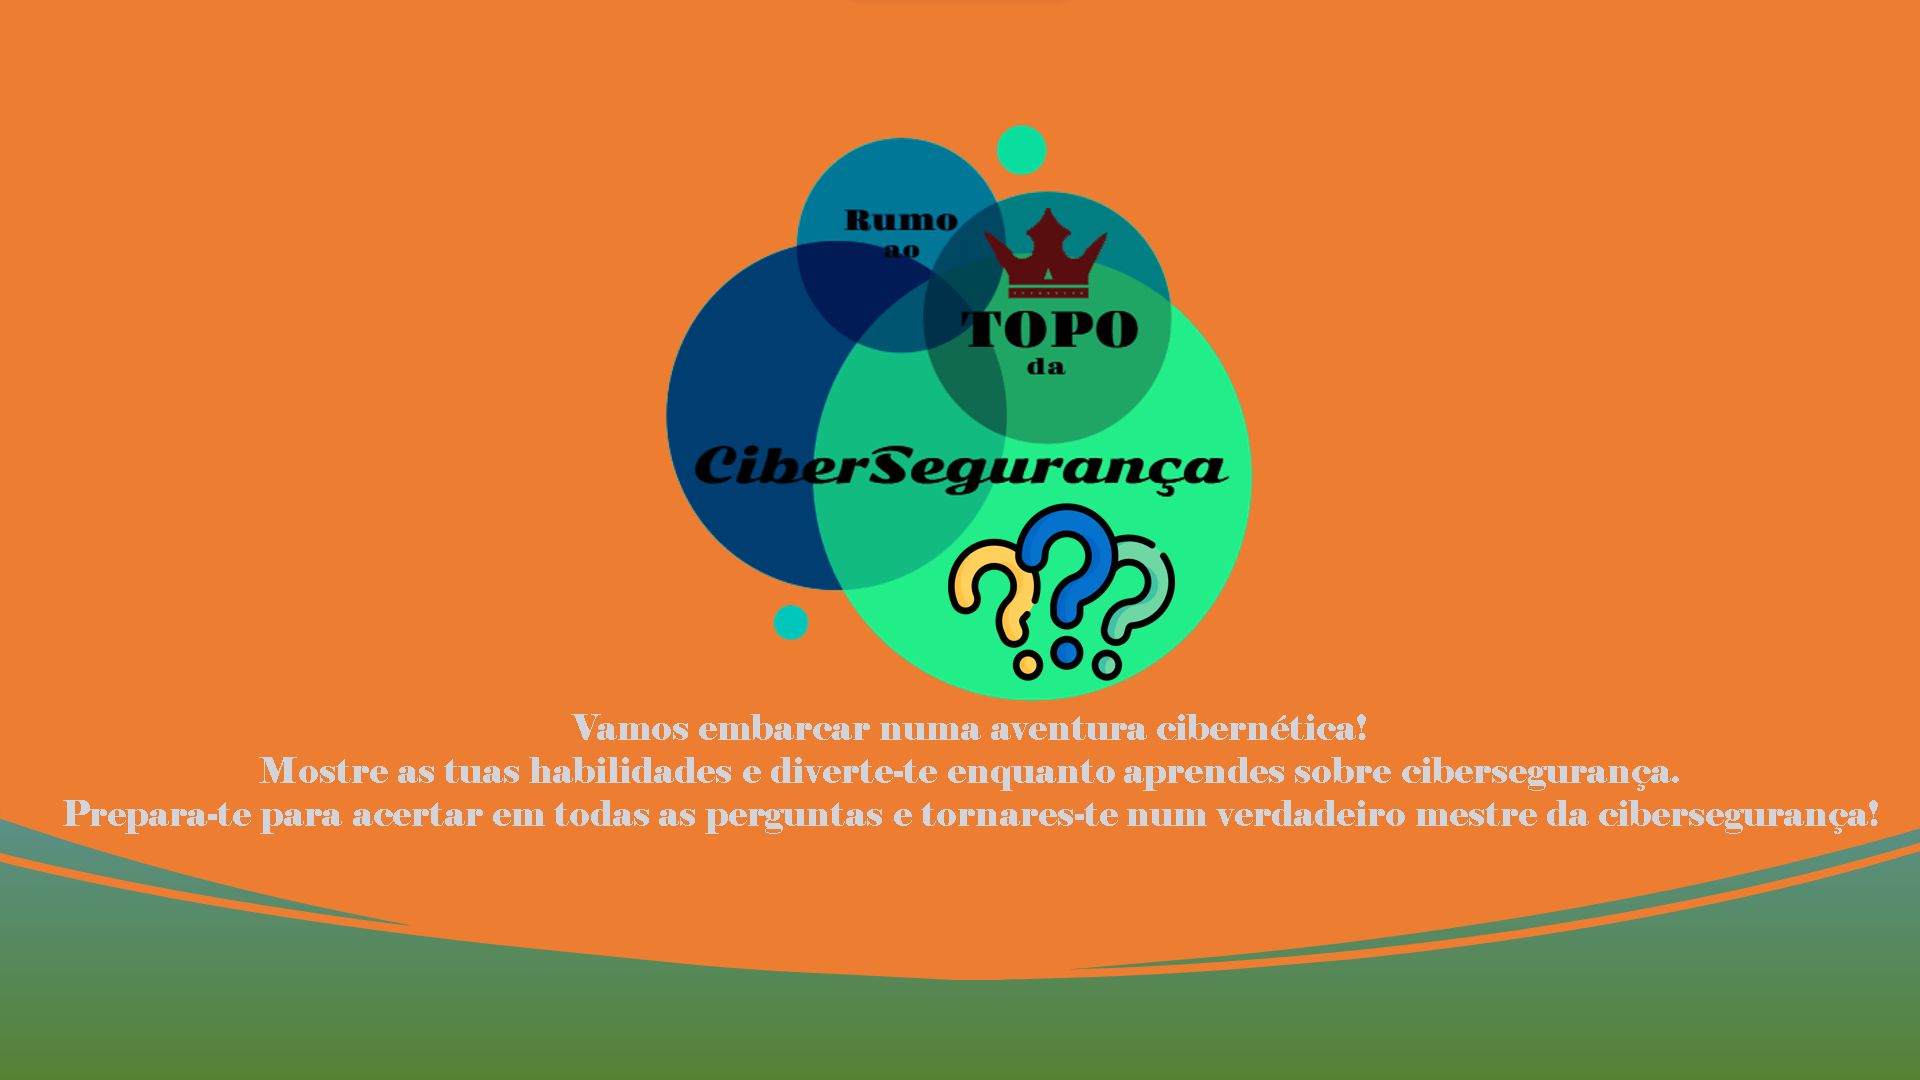
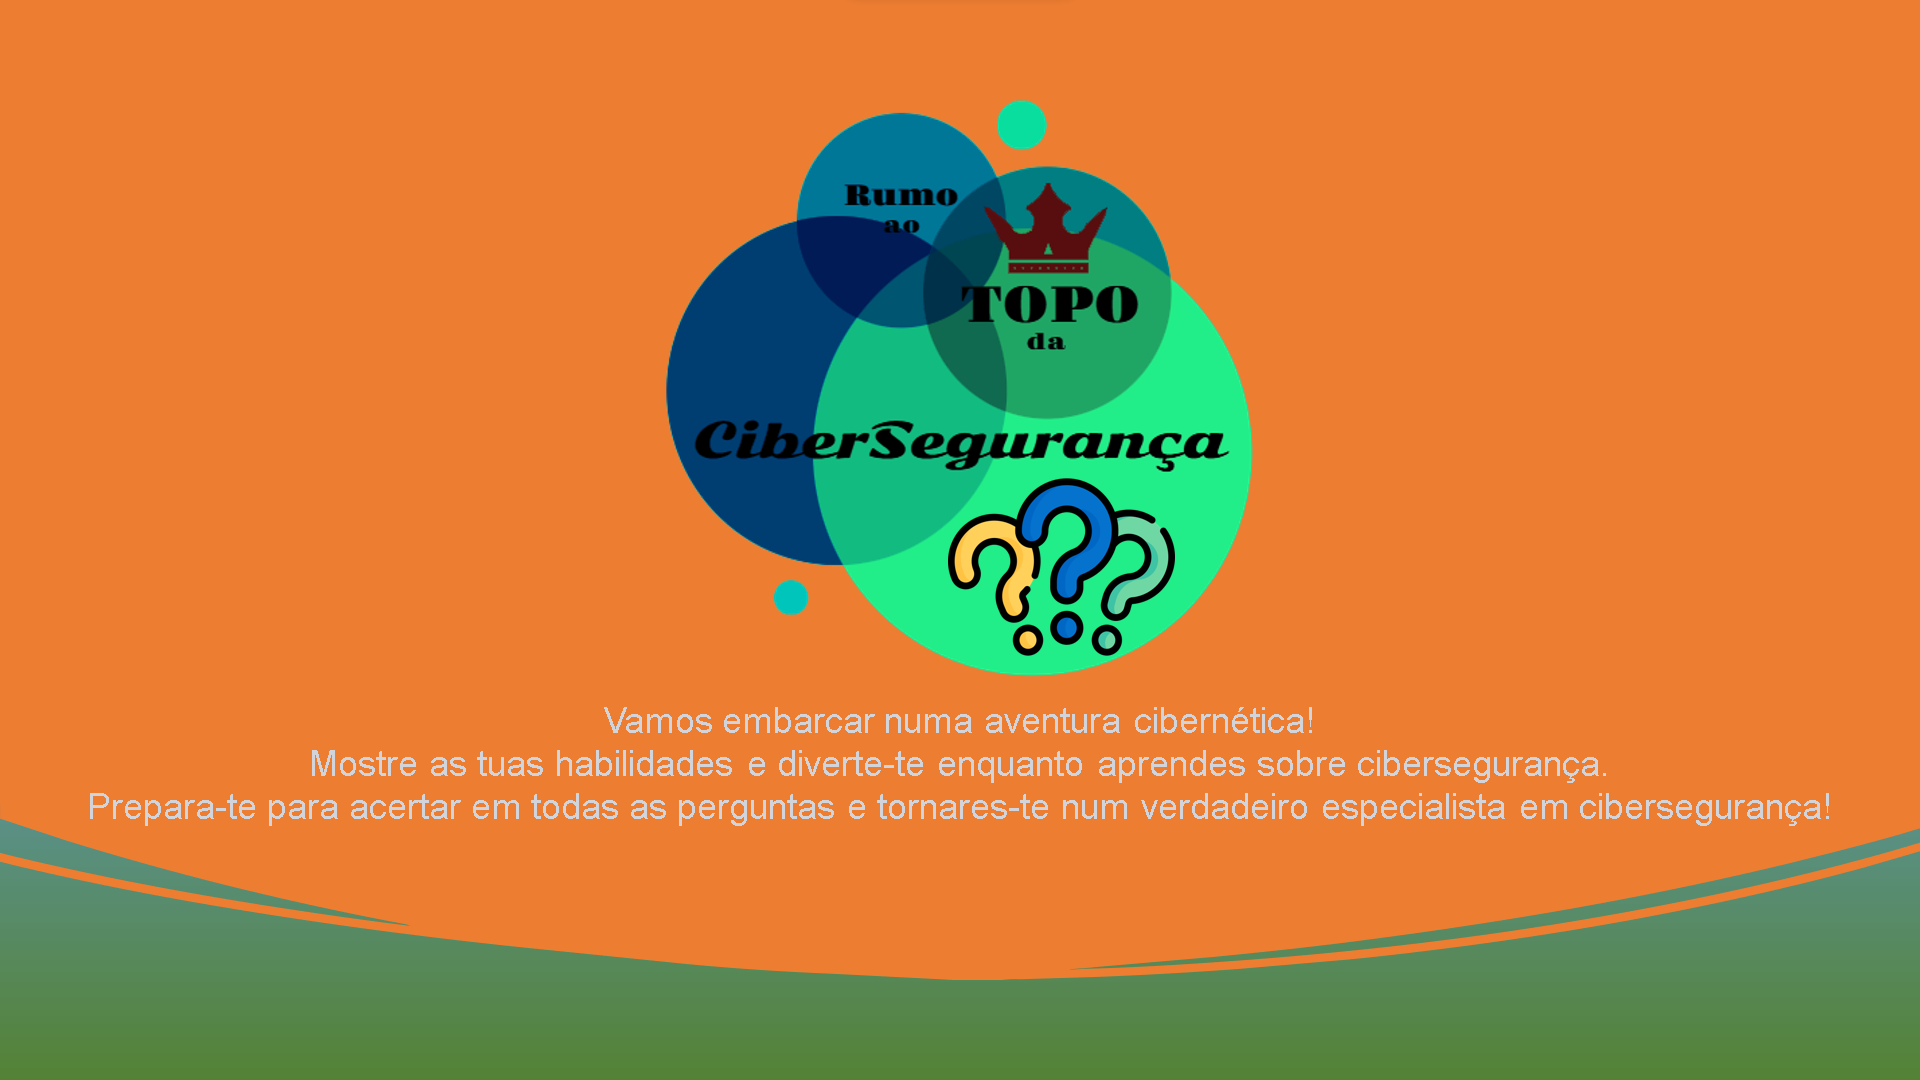
welcomescreen + questions

Changed region(s): [[0.0312, 0.0917, 1.0, 0.7639]]

diff --git a/RTSQuiz/css/index.css b/RTSQuiz/css/index.css
@@ -130,7 +130,7 @@ a{
     height:75vh;
     width:75vw;
     background-color:lightseagreen;
-    background-image:url("../images/walpaperend.jpg");
+    background-image:url("../images/background.png");
     background-repeat: no-repeat;
     background-position:right;
     background-size:cover;
@@ -290,7 +290,7 @@ a{
     margin-bottom: 100px;
     border:none;
     cursor:pointer;
-    background-image:url("../images/logo.png");
+    background-image:url("../images/logo3.png");
 }
 
 

diff --git a/RTSQuiz/index.html b/RTSQuiz/index.html
@@ -6,7 +6,7 @@
     <meta name="viewport" content="width=device-width, initial-scale=1.0">
     <link rel="shortcut icon" href="#">
     <link rel="stylesheet" href="./css/index.css">
-    <title>CyberSegurança</title>
+    <title>RumoAoTopoDaCibersegurança</title>
 
     <link rel="icon" href="images/logo.png">
 </head>

diff --git a/RTSQuiz/js/index.js b/RTSQuiz/js/index.js
@@ -1160,7 +1160,7 @@ function congratulationComment(ind){
 
 function lastEndComment(money){
     let com;
-    if(money>=320000)
+    if(money>=10000)
         com = "Parabéns, és o grande vencedor!";
     else if(money>0)
         com = "Foi um bom jogo, jogaste bem!";
